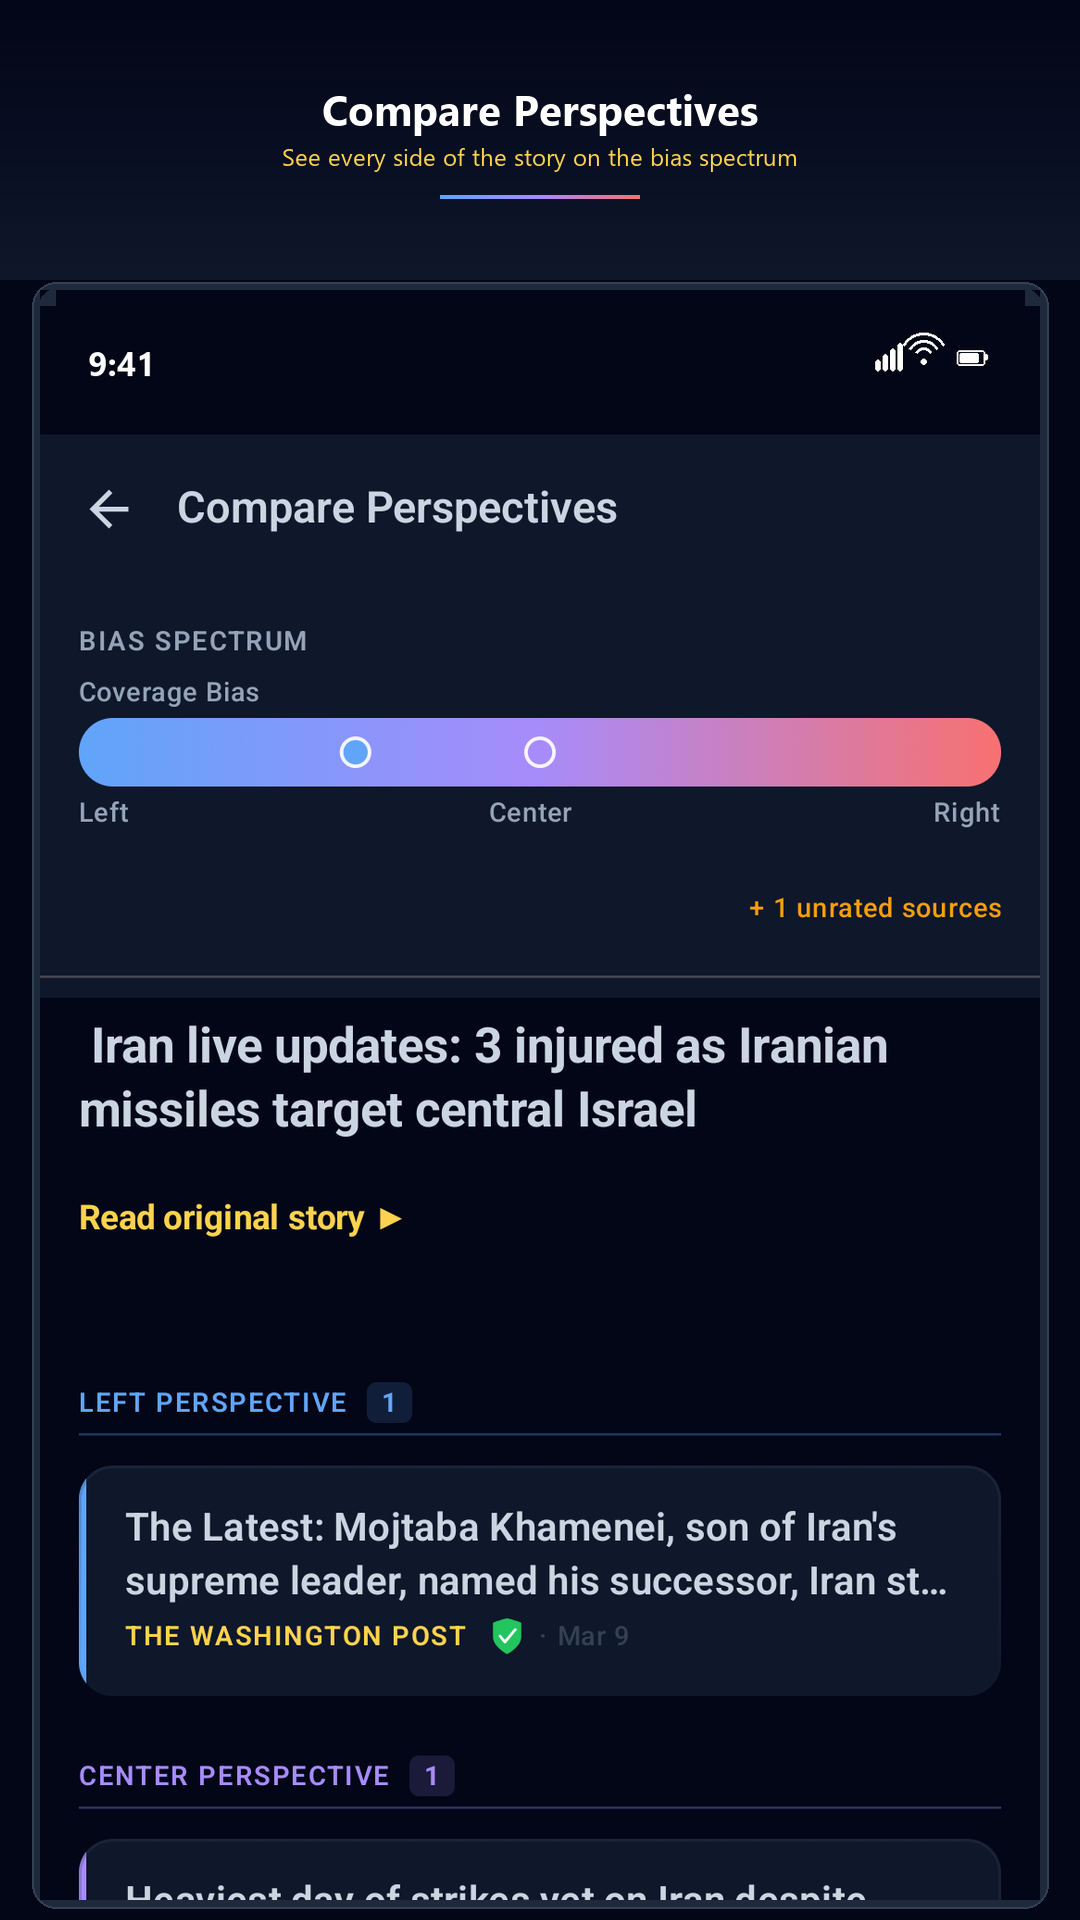
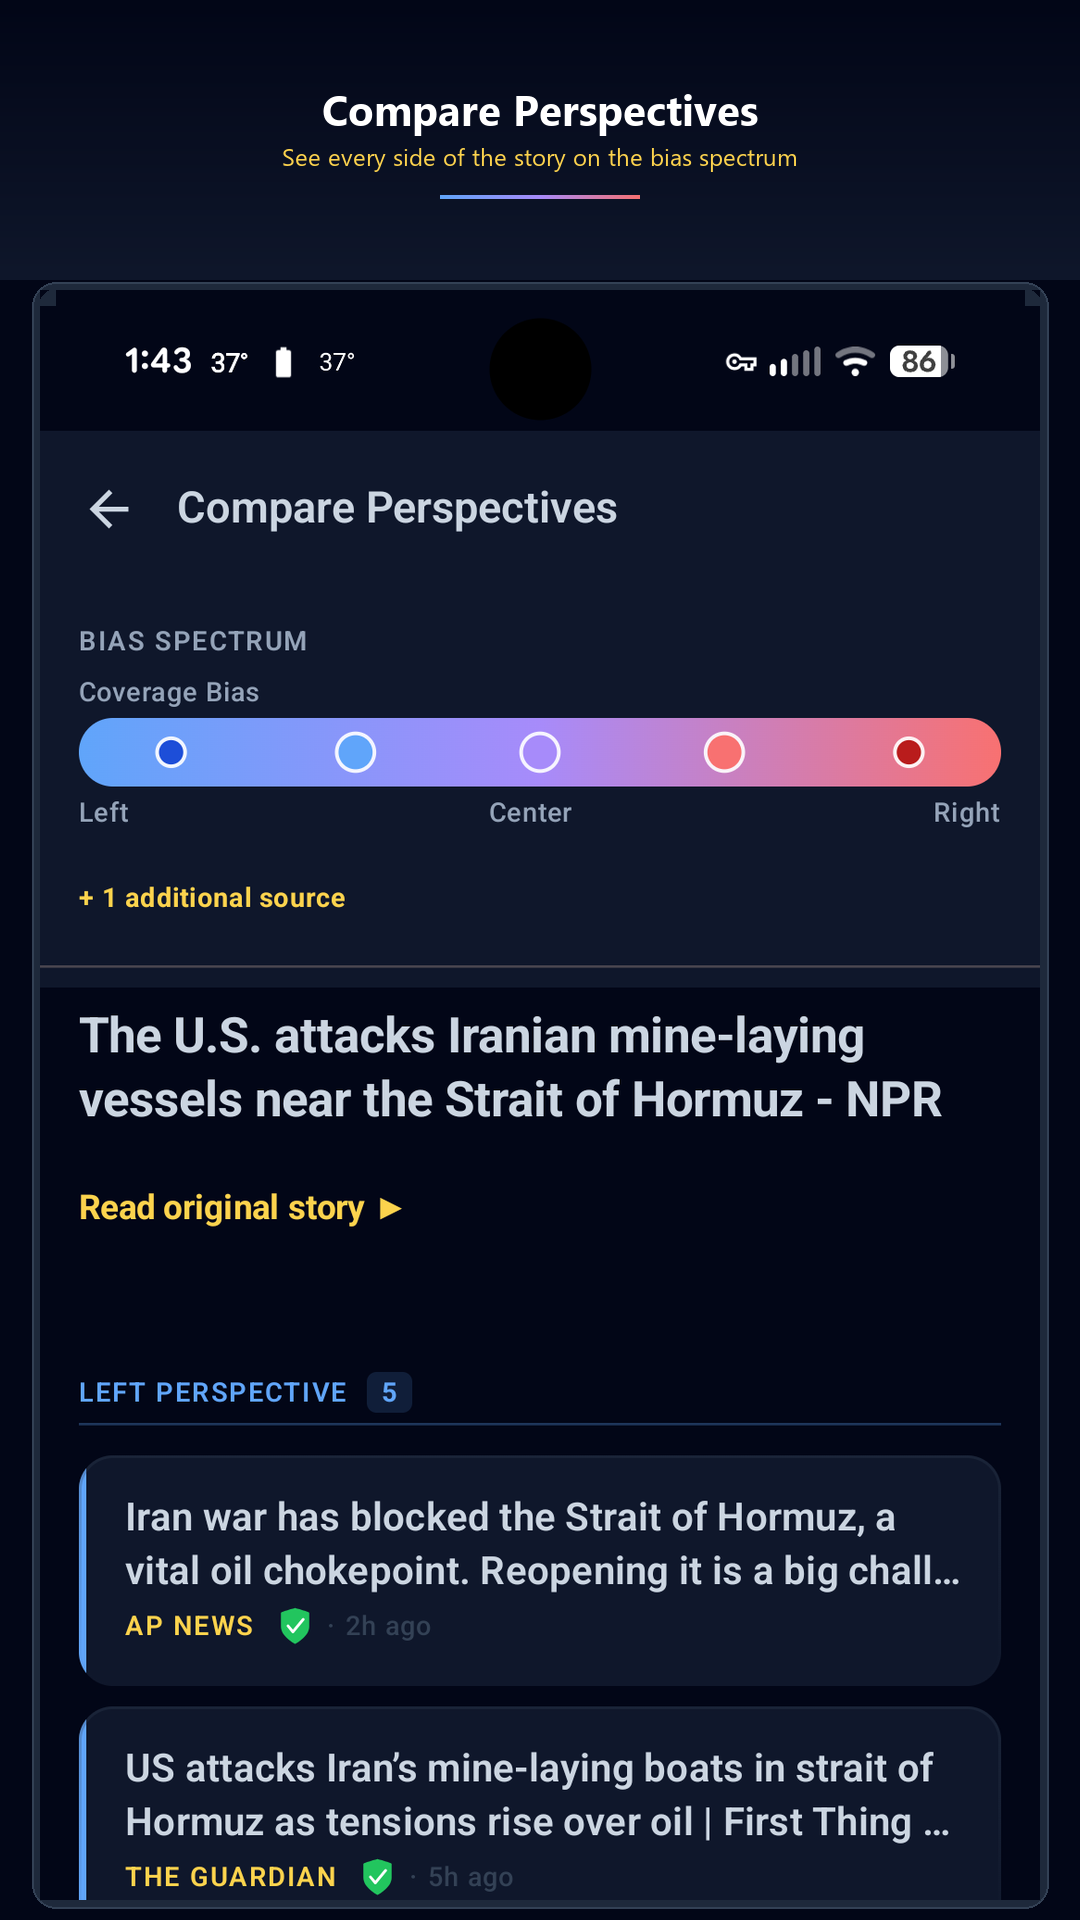
fix(S19/T02): retake all screenshots with clean status bars
Fresh phone captures with cleared notifications:
- Screenshot 1: NYT Iran article with green badge, bias bar
- Screenshot 2: Compare Perspectives with 5-dot bias spectrum, AP/Guardian sources
- Screenshot 3: My Tracking with 3 tracked stories, bias distributions
- Screenshot 4: Story Analysis with LEFT PERSPECTIVE (117), NYT/Al Jazeera
- Screenshot 5: Feed with NY Post + NY Post cards, reliability badges
- Remove old _updated source screenshots, replace with _fresh captures

diff --git a/generate_store_assets.py b/generate_store_assets.py
@@ -264,31 +264,31 @@ print("\n=== Generating Framed Screenshots ===")
 
 screenshots_config = [
     {
-        "file": "NewsThread_Feed_Page_with_Story_Source_Bias_Rating.png",
+        "file": "feed_top_fresh.png",
         "caption": "Your News Feed",
         "subtitle": "Bias ratings and source badges at a glance",
         "output": "screenshot_01_feed_badges.png"
     },
     {
-        "file": "compare_perspectives_updated.png",
+        "file": "compare_perspectives_fresh.png",
         "caption": "Compare Perspectives",
         "subtitle": "See every side of the story on the bias spectrum",
         "output": "screenshot_02_bias_spectrum.png"
     },
     {
-        "file": "tracking_updated.png",
+        "file": "tracking_fresh.png",
         "caption": "Track Developing Stories",
         "subtitle": "Get notified as news evolves across sources",
         "output": "screenshot_03_tracking.png"
     },
     {
-        "file": "story_analysis_updated.png",
+        "file": "story_analysis_fresh.png",
         "caption": "Story Analysis",
         "subtitle": "Coverage bias breakdown with Left, Center, Right views",
         "output": "screenshot_04_story_analysis.png"
     },
     {
-        "file": "feed_updated.png",
+        "file": "feed_top_fresh.png",
         "caption": "Clean, Fast Feed",
         "subtitle": "Rich article cards with images and source reliability",
         "output": "screenshot_05_feed_clean.png"
